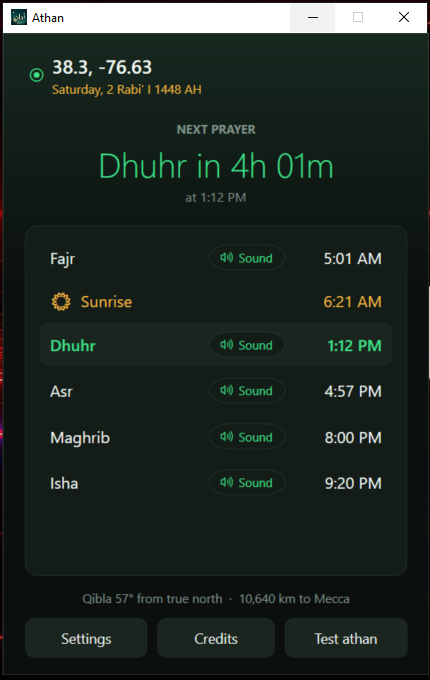
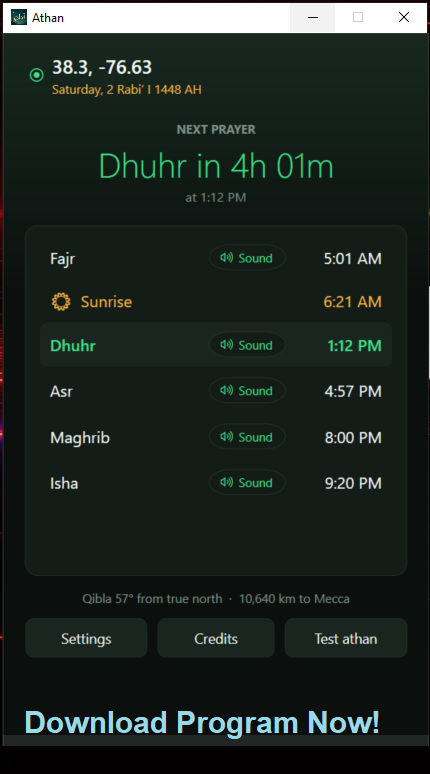
Line the screenshots up, add the Ramadan output, and make the first image a download link
Sized by height rather than width so each row aligns: the windows range from 0.48 to 1.28 in aspect, and a fixed width left them staggered. The hero shot carries the 'Download Program Now' banner, so it now links straight to the latest release asset.

diff --git a/README.md b/README.md
@@ -12,9 +12,12 @@
 </p>
 
 <p align="center">
-  <img src="screenshots/1.PNG" width="300" alt="Today's prayer times with a countdown to the next one">
-  <img src="screenshots/7.PNG" width="300" alt="The athan window, with a single Stop button">
+  <a href="https://github.com/nandxorandor/Athan-Desktop/releases/latest/download/Athan.exe">
+    <img src="screenshots/1.PNG" height="560" alt="Click to download Athan.exe — today's prayer times with a countdown to the next one">
+  </a>
 </p>
+
+<p align="center"><sub><b>Click the image to download.</b> One file, nothing to install.</sub></p>
 
 ---
 
@@ -99,18 +102,30 @@ Dates come from the Umm al-Qura calendar, which is calculated rather than
 sighted, so your local mosque may begin or end the month a day either side —
 the printout says so on it.
 
+<p align="center">
+  <img src="screenshots/8.PNG" width="700" alt="The generated Word document: all 29 days of Ramadan on a single page, with suhoor and iftar picked out in green">
+</p>
+
+<p align="center"><sub>The saved <code>.docx</code> — the whole month on one page, suhoor and iftar picked out, Fridays shaded.</sub></p>
+
 ## Screenshots
 
 <p align="center">
-  <img src="screenshots/2.PNG" width="280" alt="Settings: athan sound per prayer, volume, calculation method and madhab">
-  <img src="screenshots/3.PNG" width="280" alt="Settings: time adjustment, start with Windows, and the About section">
+  <img src="screenshots/2.PNG" height="430" alt="Settings: athan sound per prayer, volume, calculation method and madhab">
+  <img src="screenshots/3.PNG" height="430" alt="Settings: time adjustment, start with Windows, Ramadan and About">
+  <img src="screenshots/6.PNG" height="430" alt="About: version, contact details and the privacy statement">
 </p>
+
 <p align="center">
-  <img src="screenshots/4.PNG" width="300" alt="Resources and credits: every recording with its reciter and source">
-  <img src="screenshots/6.PNG" width="270" alt="About: version, contact details and the privacy statement">
+  <img src="screenshots/4.PNG" height="480" alt="Resources and credits: every recording with its reciter and source">
+  <img src="screenshots/5.PNG" height="480" alt="Resources and credits, scrolled further down the list">
 </p>
 
 <p align="center"><sub>The credits screen is generated from the shipped audio index, so it cannot list a recording the app does not have.</sub></p>
+
+<p align="center">
+  <img src="screenshots/7.PNG" height="280" alt="The athan window at prayer time, with a single Stop button">
+</p>
 
 ## Download
 
